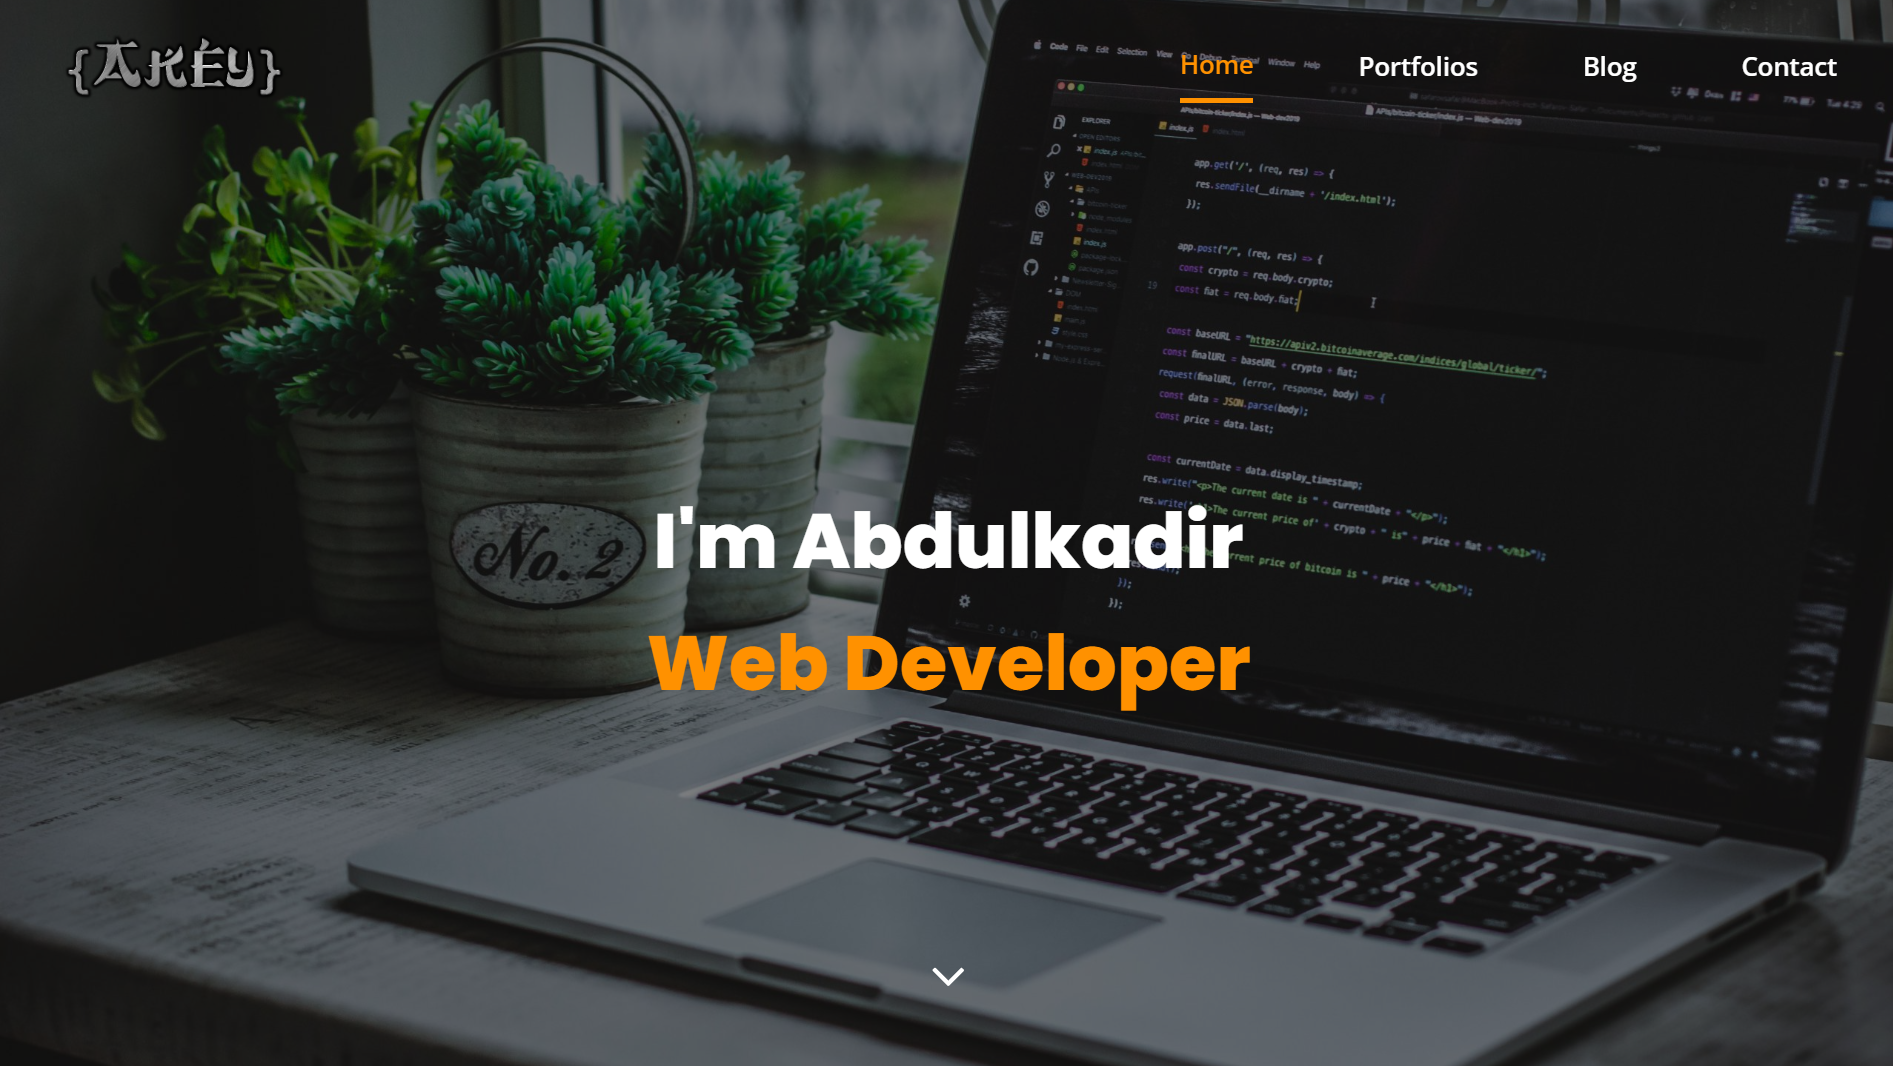
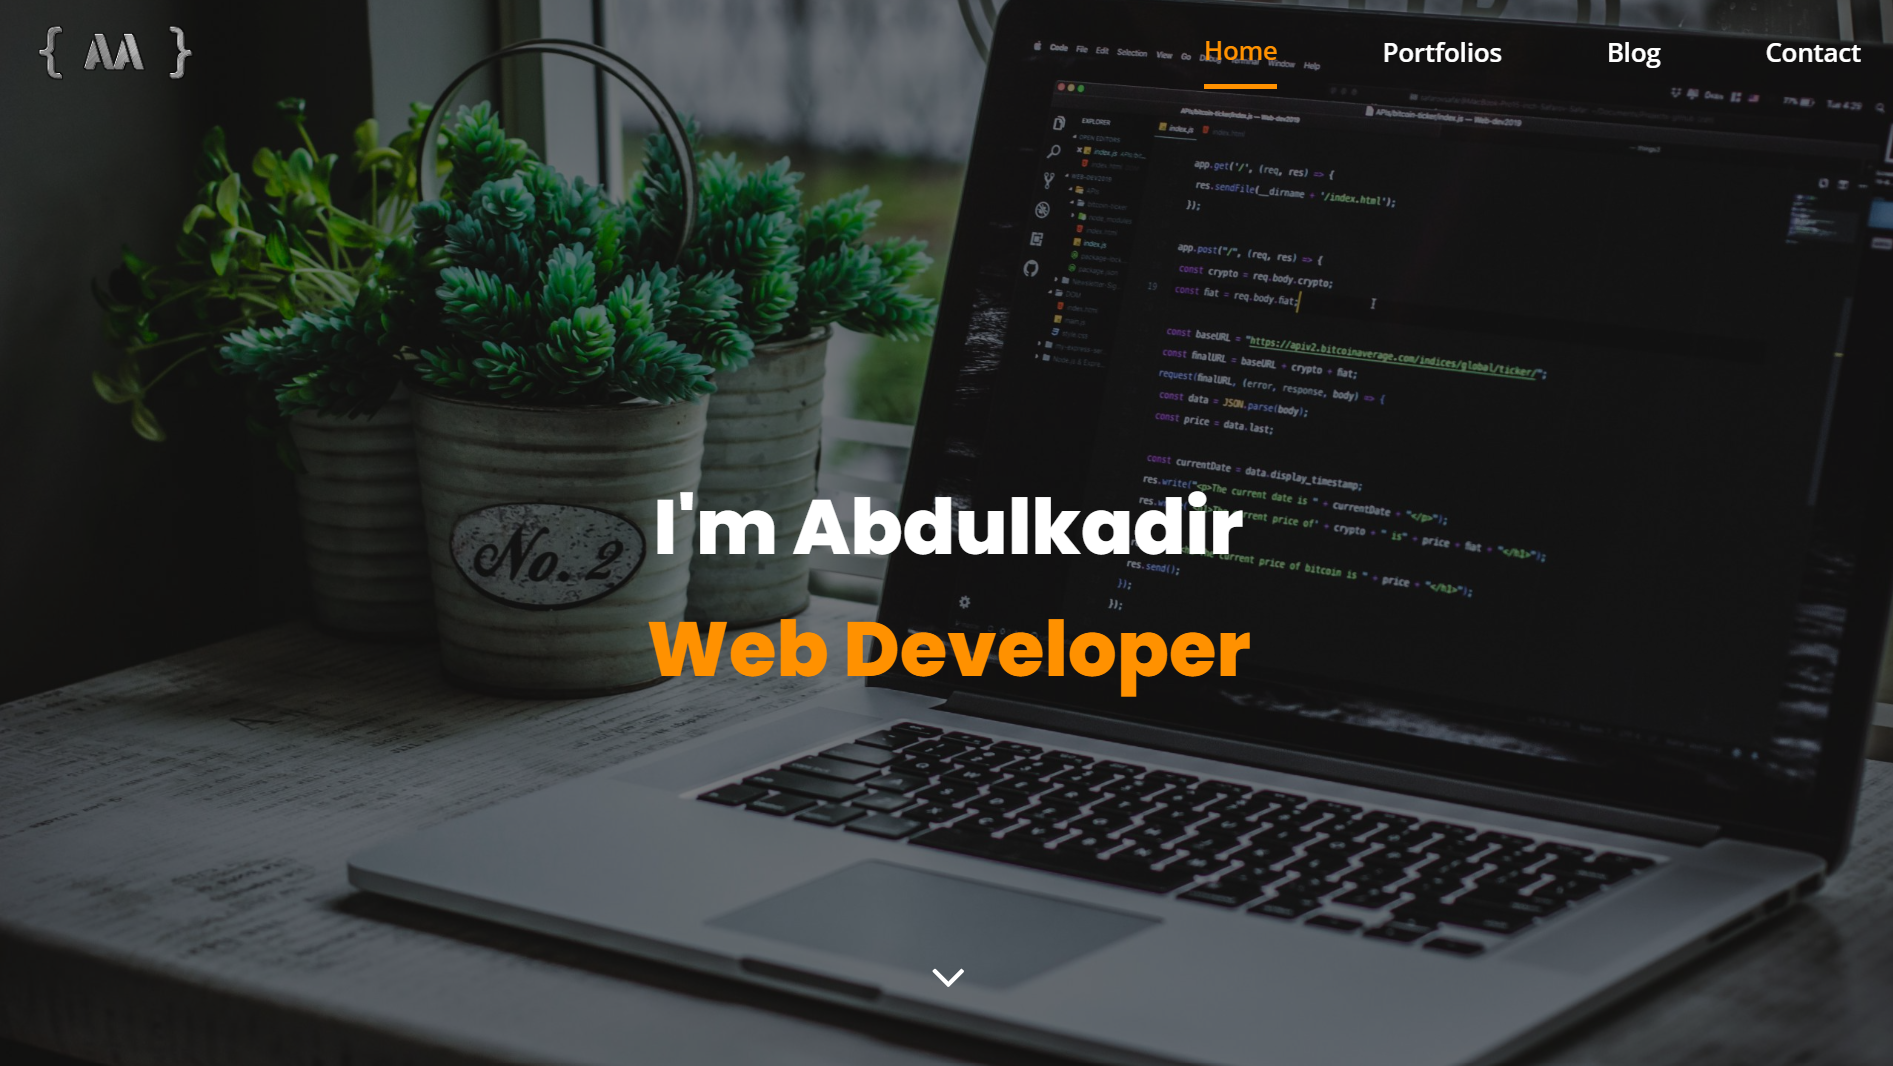
Update project screenshots

diff --git a/src/components/Experience/style.css b/src/components/Experience/style.css
@@ -129,7 +129,6 @@
 .cv__link__2:active {
   /* background-color: var(--background-color); */
   color: var(--text-color);
-  border: 1px solid transparent;
   box-shadow: 0 0 2px 2px var(--primary-color-01); 
   font-weight: bold;
   transform: scale(1.02);
@@ -179,12 +178,14 @@
 #experienceTabs > .nav-item > button {
   color: var(--text-color);
   background-color: var(--frame-color);
+  border: 1px solid var(--frame-color);
   border-radius: 3px;
 }
 
 #experienceTabs > .nav-item > .active {
   color: var(--primary-color);
   background-color: var(--buttonHover-color);
+  border: 1px solid var(--buttonHover-color);
 }
 
 #experienceTabs > .nav-item > button:hover {

diff --git a/src/components/About/style.css b/src/components/About/style.css
@@ -144,6 +144,7 @@
 #skillsTab > .nav-item > button {
   color: var(--text-color);
   background-color: var(--frame-color);
+  border: 1px solid var(--frame-color);
   border-radius: 3px;
 }
 
@@ -156,12 +157,13 @@
 }
 
 #skillsTab > .nav-item > .active {
-  border-color: transparent;
+  border: 1px solid var(--buttonHover-color);
   color: var(--primary-color);
   background-color: var(--buttonHover-color);
 }
 
 #skillsTab > .nav-item > button:hover {
+  border: 1px solid var(--frame-color);
   color: var(--primary-color);
 }
 
